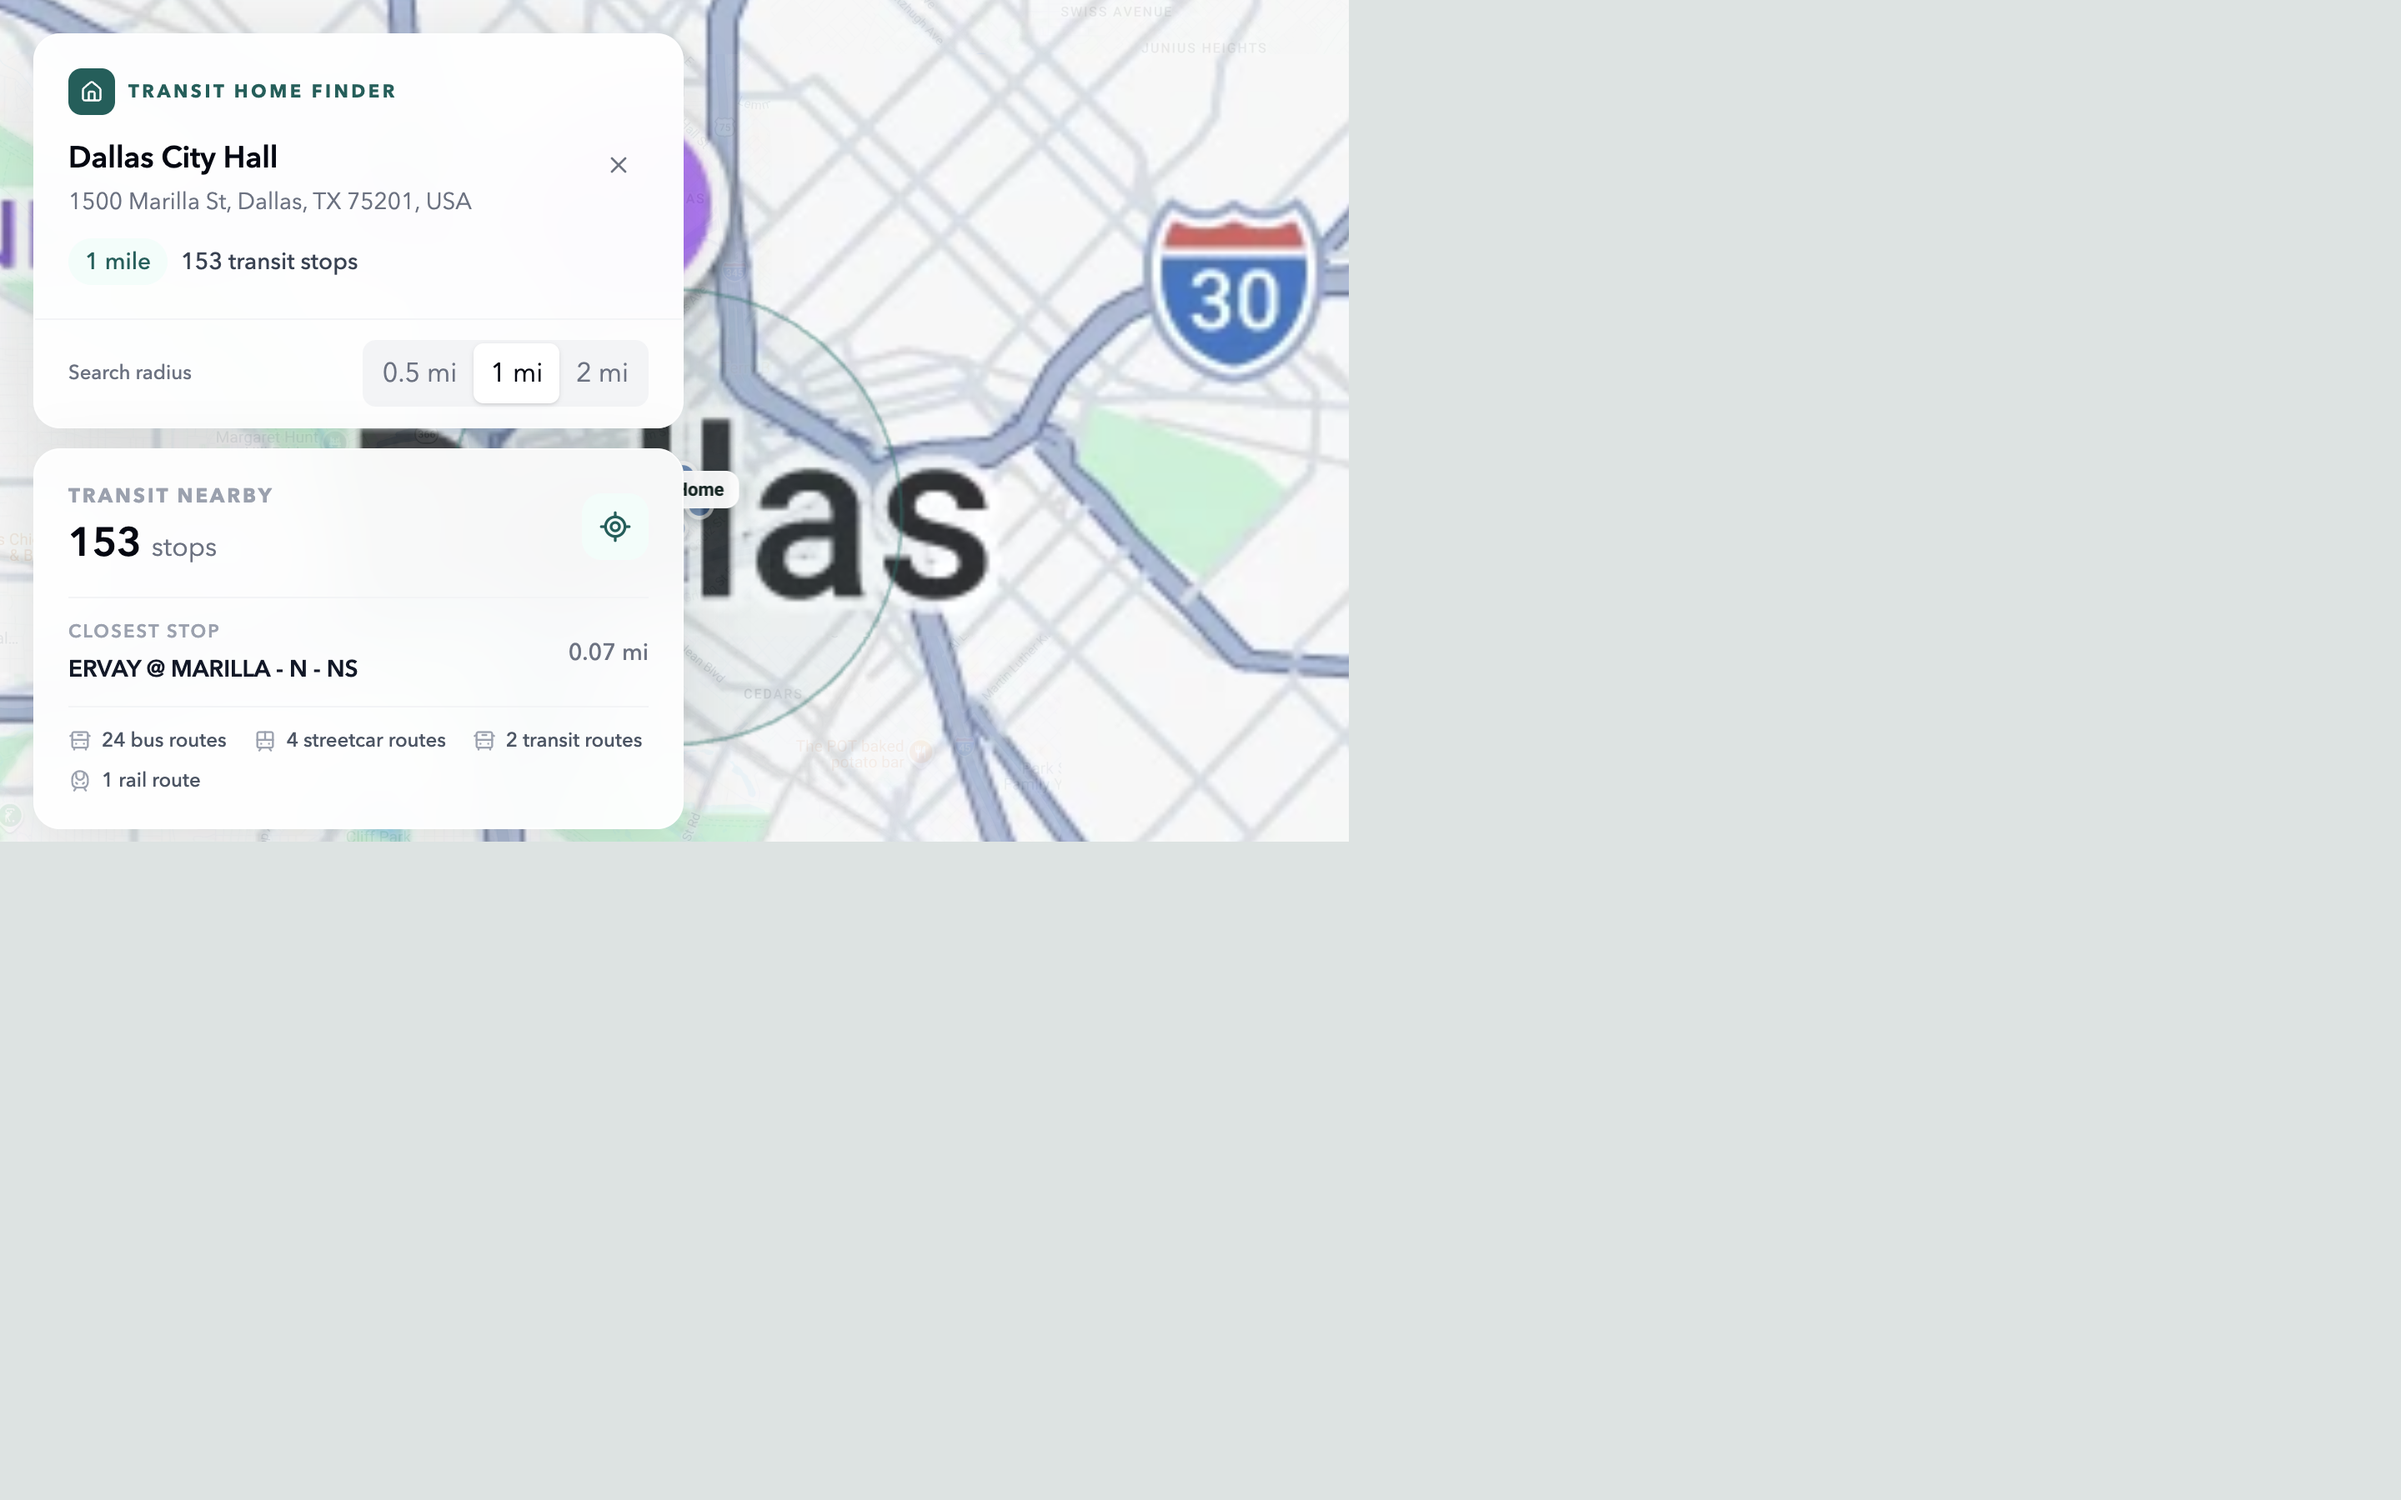
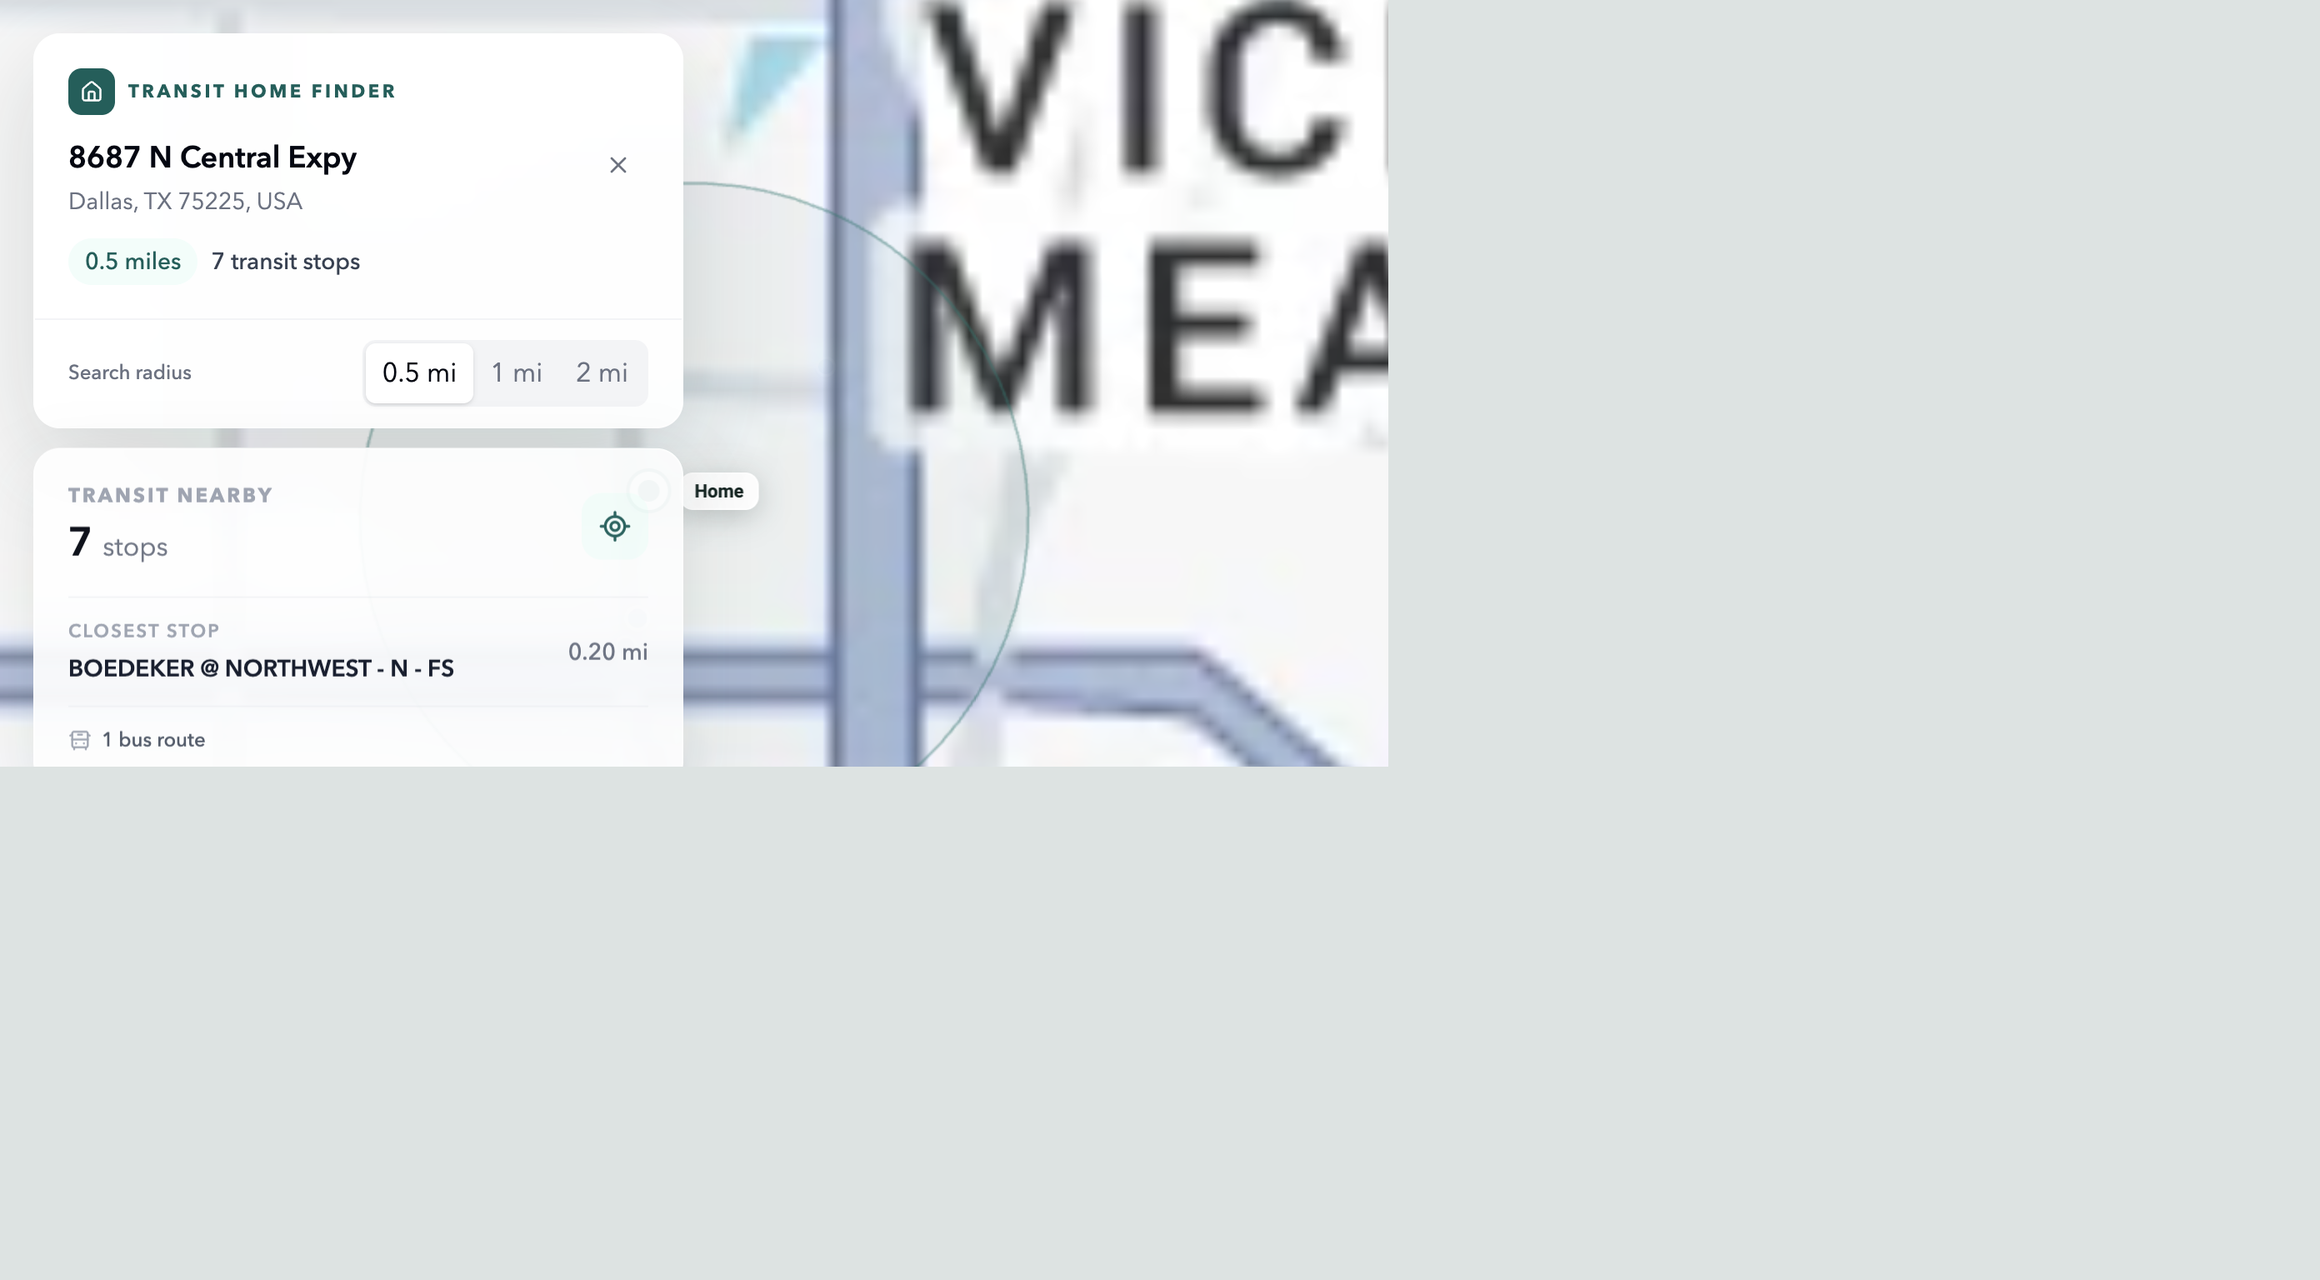
Update demo screenshots and default radius

Changed region(s): [[0.0, 0.0, 0.625, 0.625], [0.0, 0.0, 0.1875, 0.2188], [0.1562, 0.0, 0.2188, 0.0312]]

diff --git a/components/TransitExplorer.js b/components/TransitExplorer.js
@@ -43,7 +43,7 @@ export default function TransitExplorer() {
   const [query, setQuery] = useState("");
   const [suggestions, setSuggestions] = useState([]);
   const [suggestionsOpen, setSuggestionsOpen] = useState(false);
-  const [radius, setRadius] = useState(1);
+  const [radius, setRadius] = useState(0.5);
   const [location, setLocation] = useState(null);
   const [stops, setStops] = useState([]);
   const [selectedStop, setSelectedStop] = useState(null);

diff --git a/README.md b/README.md
@@ -9,7 +9,7 @@ Search for a prospective home, inspect nearby DART stops, select a stop, and exp
 ## Highlights
 
 - Google Places address search and autocomplete
-- Nearby stop discovery within 0.5, 1, or 2 miles
+- Nearby stop discovery defaults to 0.5 miles, with 1- and 2-mile options
 - Mode-aware map markers for bus, rail, and streetcar service
 - Stop details with every available route and direction
 - Published GTFS route geometry rendered on Google Maps
@@ -20,11 +20,11 @@ Search for a prospective home, inspect nearby DART stops, select a stop, and exp
 
 ## Demo
 
-| Selected stop and route | Mobile bottom sheet |
+| Selected stop | Selected route |
 | --- | --- |
-| ![Selected DART route on desktop](docs/screenshots/selected-route-desktop.png) | ![Selected DART route on mobile](docs/screenshots/selected-route-mobile.png) |
+| ![Selected DART stop](docs/screenshots/selected-stop-desktop.png) | ![Selected DART route](docs/screenshots/selected-route-desktop.png) |
 
-The screenshots use Dallas City Hall, a public civic address. No home address or personal location data is included in this repository.
+The screenshots use a public commercial address in Dallas. No home address or personal location data is included in this repository.
 
 ## Tech stack
 
